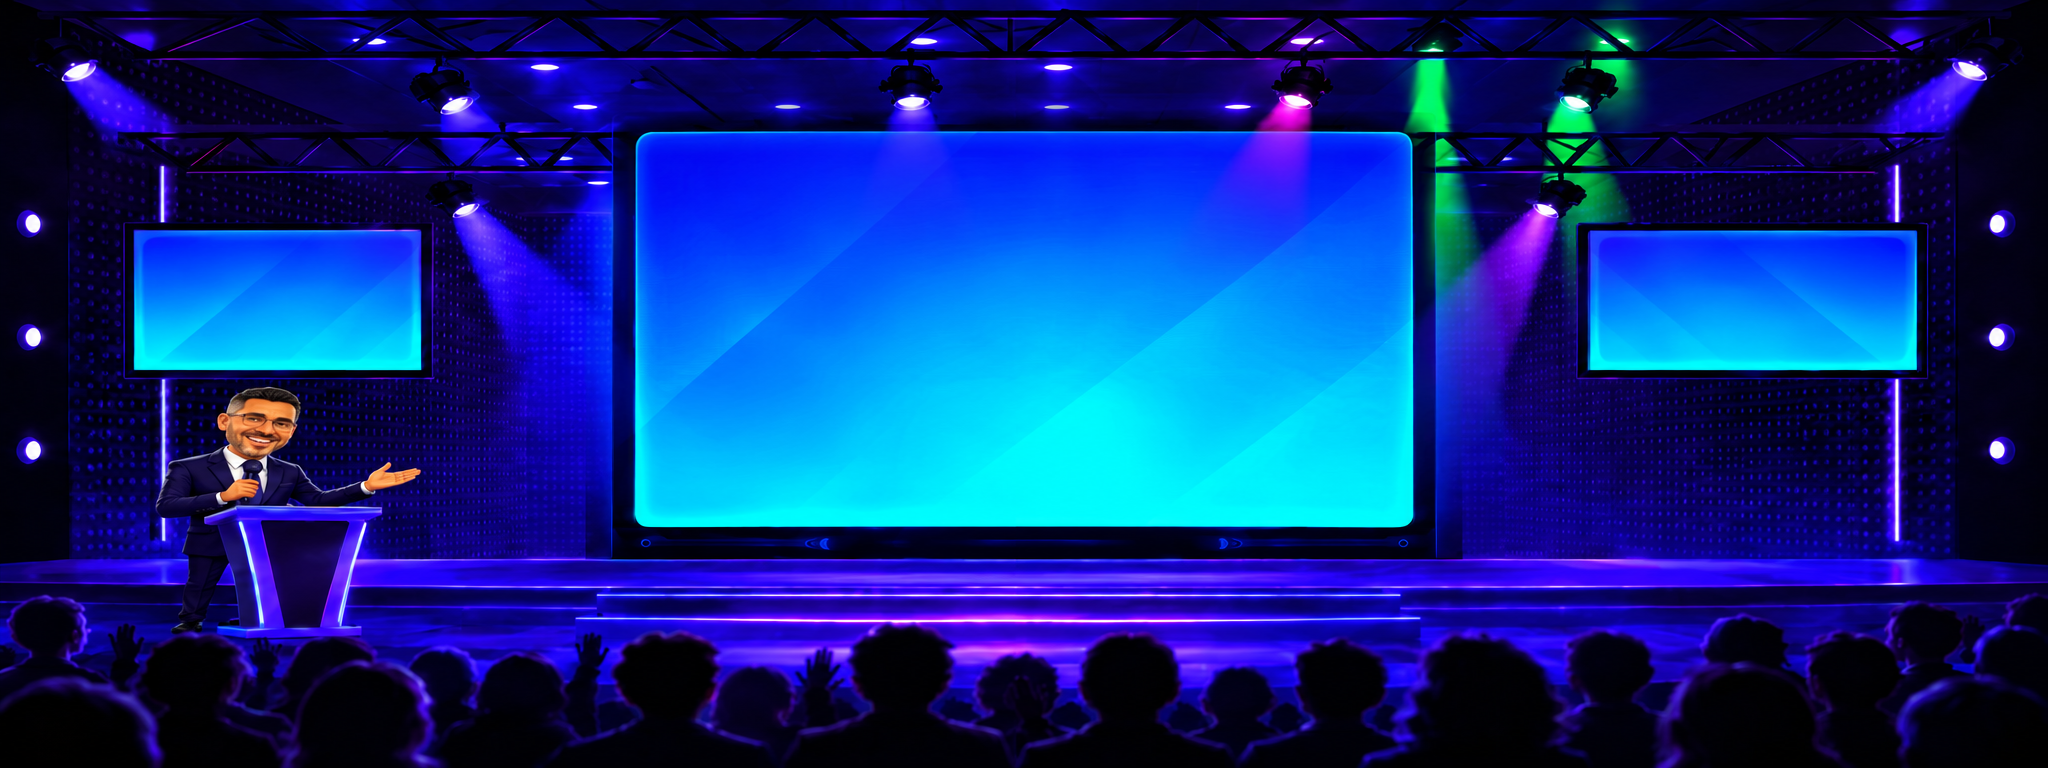
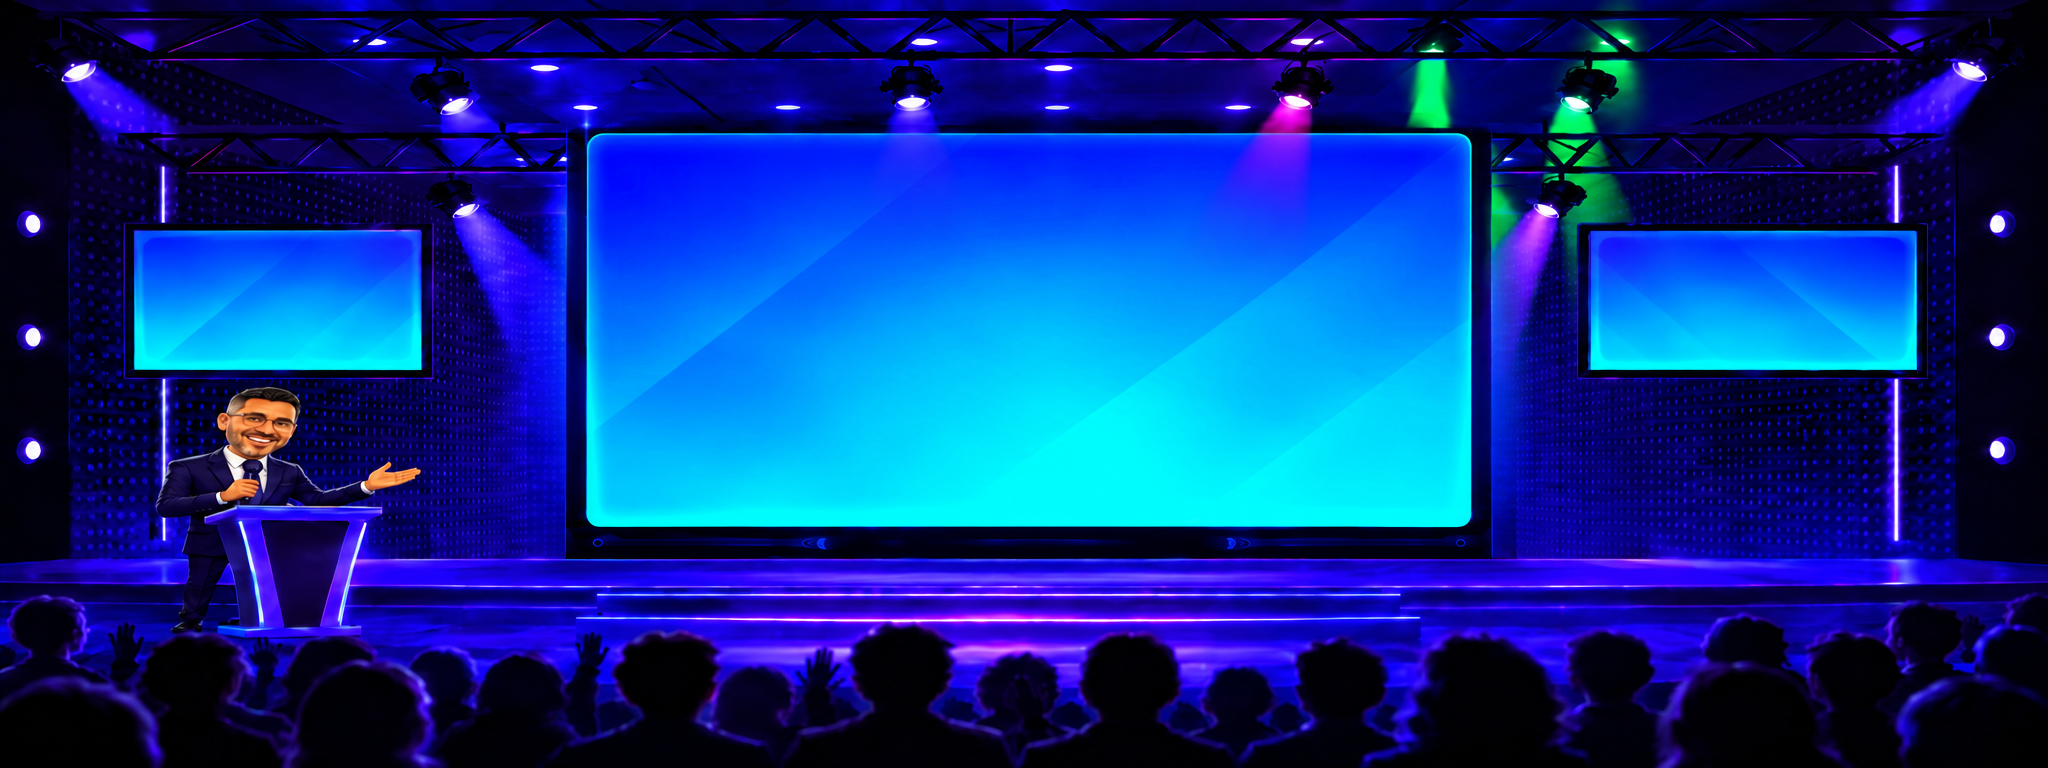
ajustes

diff --git a/src/components/GameScreen.css b/src/components/GameScreen.css
@@ -194,8 +194,8 @@
     }
 
     .player-panel .player-stat { 
-        padding: 0.05rem 0.5rem; 
-        font-size: 0.52rem; 
+        padding: 0.04rem 0.5rem; 
+        font-size: 0.5rem; 
         line-height: 1; 
         background: transparent; }
 
@@ -541,6 +541,8 @@
     .main-screen #question { 
         
         position: relative; 
+         left: 6px;
+        
     }
 
     .main-screen .combo-badge { 
@@ -558,149 +560,107 @@
     .main-screen #question.question-with-image { 
         
         display: flex; 
-        flex-direction: column; 
-    }
+        flex-direction: column;
+         
+       
+}
+
+
 }
 
 /* ==========================================================================
 📱 LAYOUT MOBILE EM PÉ (Até 768px vertical)========================================================================== */
 
 @media (max-width: 768px) {
-    .ranking-toggle { 
-        display: block; 
-        width: 100%; 
+    .ranking-toggle {
+        display: block;
+        width: 100%;
         padding: 0.8rem;
-         background-color: #2b283d; 
-         color: #fff; 
-         border: 1px solid #8435de; 
-         border-radius: 0.7rem; 
-         font-weight: bold; 
-         cursor: pointer; 
-        }
-        
-        .ranking-panel {
-            
-            display: none; 
-        }
-        
-        .ranking-panel.ranking-open { 
-            
-            display: block; 
-        }
-        
-        .game-screen { 
-            width: 100%; 
-            max-width: 100%; 
-            grid-template-columns: minmax(0, 1fr); 
-            gap: 1rem; 
-            padding: 0.6rem; 
-            box-sizing: border-box; 
-            overflow-x: hidden; 
-        }
-        
-        .player-panel, .main-screen, .ranking-panel, .ranking-toggle {
-            
-            width: 100%; 
-            max-width: 100%; 
-            min-width: 0; 
-            box-sizing: border-box; 
-        }
+        background-color: #2b283d;
+        color: #fff;
+        border: 1px solid #8435de;
+        border-radius: 0.7rem;
+        font-weight: bold;
+        cursor: pointer;
+        order: 2;
+    }
 
-        .player-panel { 
-            
-            order: 1; 
-            padding: 1rem; 
-        }
-        
-        .ranking-toggle { 
-            
-            order: 2; 
-        }
-        
-        .ranking-panel { 
-            
-            order: 3; 
-            padding: 1rem; 
-        }
-        
-        .main-screen { 
-            
-            order: 4; 
-            padding: 0.3rem; 
-            overflow: hidden; 
-        }
-        
-        .player-stats { 
-            
-            display: grid; 
-            grid-template-columns: repeat(3, 1fr); 
-            gap: 0.5rem; 
-        }
-        
-        .player-stat { 
-            
-            flex-direction: column; 
-            justify-content: center;
-             gap: 0.25rem; 
-             padding: 0.6rem 0.3rem; 
-             font-size: 0.75rem; 
-            }
-            
-            .player-name { 
-                
-                margin-bottom: 0.5rem; 
-            }
+    .ranking-panel { display: none; }
+    .ranking-panel.ranking-open { display: block; }
 
-            /* ==========================================================================
-            📱 AJUSTE DAS TELAS DO PALCO PARA CELULAR DEITADO / LANDSCAPE (Até 932px)
-            ========================================================================== */
-            
-            @media (max-width: 932px) and (orientation: landscape) {
-                
-                .main-screen {
-                    position: absolute !important; 
-                    left: 31% !important; 
-                    top: 15.5% !important;
-                    width: 39% !important; 
-                    height: 52% !important; 
-                    overflow: visible !important;
-                }
-                
-                   /* Substitua estes blocos dentro da media query landscape no gamescreen.css */
+    .game-screen {
+        width: 100%;
+        max-width: 100%;
+        grid-template-columns: minmax(0, 1fr);
+        gap: 1rem;
+        padding: 0.6rem;
+        box-sizing: border-box;
+        overflow-x: hidden;
+    }
+
+    .player-panel, .main-screen, .ranking-panel, .ranking-toggle {
+        width: 100%;
+        max-width: 100%;
+        min-width: 0;
+        box-sizing: border-box;
+    }
+
+    .player-panel { order: 1; padding: 1rem; }
+    .ranking-panel { order: 3; padding: 1rem; }
+    .main-screen { order: 4; padding: 0.3rem; overflow: hidden; }
+
+    .player-stats {
+        display: grid;
+        grid-template-columns: repeat(3, 1fr);
+        gap: 0.5rem;
+    }
+
+    .player-stat {
+        flex-direction: column;
+        justify-content: center;
+        gap: 0.25rem;
+        padding: 0.6rem 0.3rem;
+        font-size: 0.75rem;
+    }
+
+    .player-name { margin-bottom: 0.5rem; }
+}
+
+/* Celular deitado: posicionamentos do palco preservados. */
+@media (max-width: 932px) and (orientation: landscape) {
+    .main-screen {
+        position: absolute !important;
+        left: 31% !important;
+        top: 15.5% !important;
+        width: 39% !important;
+        height: 52% !important;
+        overflow: visible !important;
+    }
+
     .player-panel {
         position: absolute !important;
-        left: 6.0% !important;
-        /* 🎯 Ajustado de 29% para 31.5% para descer o bloco inteiro e centralizar no telão */
-        top: 30.5% !important; 
+        left: 6% !important;
+        top: 30.5% !important;
         width: 15% !important;
         height: 18% !important;
         background: transparent !important;
         border: none !important;
         box-shadow: none !important;
-       
     }
 
     .ranking-panel {
         position: absolute !important;
         right: 5% !important;
-        /* 🎯 Ajustado de 27% para 29.5% para descer o bloco inteiro e centralizar no telão */
-        top: 29.5% !important; 
+        top: 29.5% !important;
         width: 19% !important;
         height: 18% !important;
         background: transparent !important;
         border: none !important;
         box-shadow: none !important;
-      
     }
-
-            
-    
 }
 
-
-    }
-
-    /* ==========================================================================
+/* ==========================================================================
    🔒 TELA DE BLOQUEIO DE ORIENTAÇÃO (Forçar celular deitado)
    ========================================================================== */
 
@@ -818,6 +778,9 @@
         margin: 0 !important;
         line-height: 1.1 !important;
     }
+
+    
+
 }
 
 @keyframes girarCelular {
@@ -826,40 +789,5 @@
     100% { transform: rotate(0deg); }
 }
 
-/* ==========================================================================
-   📟 BLINDAGEM FLUIDA DA IMAGEM PARA TABLETS E DOBRÁVEIS (Deitados)
-   ========================================================================== */
-@media (min-width: 769px) and (max-width: 1280px) {
 
-    /* 🎯 IGUAL AO CELULAR: Limita a altura do bloco para 68% da TV azul */
-    .main-screen .image-question-content {
-        display: grid !important;
-        grid-template-columns: 1.1fr 0.9fr !important;
-        gap: 0.4rem !important;
-        width: 100% !important;
-        height: 68% !important; 
-        margin-top: 0px !important;
-        align-items: center !important; 
-    }
 
-    /* 🎯 IGUAL AO CELULAR: Cria o teto invisível baseado na altura útil do aparelho */
-    .main-screen .image-question-left {
-        width: 100% !important;
-        height: 100% !important;
-        max-height: 32vh !important; /* A foto gigante NUNCA vai passar de 32% da altura de nenhum tablet */
-        display: flex !important;
-        align-items: center !important;
-        justify-content: center !important;
-        overflow: hidden !important;
-    }
-
-    /* 🎯 IGUAL AO CELULAR: Força o React a encolher a foto mantendo a proporção original */
-    .main-screen .image-question-left .question-image {
-        width: auto !important; 
-        height: 100% !important;
-        max-width: 100% !important;
-        max-height: 100% !important;
-        object-fit: contain !important; /* Encolhe perfeitamente a imagem sem achatar ou distorcer */
-        margin: 0 !important;
-    }
-}

diff --git a/src/components/Question.css b/src/components/Question.css
@@ -12,7 +12,7 @@
 
 #question p { margin-bottom: 1rem; }
 #question h2 { margin-bottom: 2rem; }
-#question button { border: 2px solid #fff; margin: 0.5rem; }
+#question button { border: 2px solid #fff; }
 
 /* Imagens das perguntas */
 .question-image {
@@ -211,20 +211,20 @@
 
     /* 📝 AJUSTE EXCLUSIVO DA PERGUNTA SEM IMAGEM (Ficar maior e imponente) */
     .main-screen #question:not(.question-with-image) h2 {
-        font-size: 13px !important; /* Aumentado de 11px para 13px para dar mais destaque */
+        font-size: 12px !important; /* Aumentado de 11px para 13px para dar mais destaque */
         line-height: 1.2 !important;
         margin: 0.4rem 0 !important; /* Dá mais espaço em volta do texto */
         text-align: center !important;
-        left: 0px !important;
+        left: 6px !important;
     }
 
     /* Pergunta com imagem mantém o tamanho pequeno de segurança */
     .main-screen #question.question-with-image h2 {
         font-size: 11px !important;
         line-height: 1.1 !important;
-        margin: 0.15rem 0 !important;
+        margin: 0.5rem  !important;
         text-align: center !important;
-        left: 0px !important;
+        left: 6px !important;
     }
 
     /* 🧱 LAYOUT 1: PERGUNTAS SEM IMAGEM (Preencher o espaço vazio e aumentar as caixas) */
@@ -350,31 +350,28 @@
         margin: 0 !important; 
         white-space: nowrap !important; 
     }
-}
 
-/* ==========================================================================
-   🔏 BLINDAGEM DA IMAGEM NO MOBILE DEITADO (Adicione no fim do Question.css)
-   ========================================================================== */
-@media (max-width: 932px) and (orientation: landscape) {
-    /* Força o container da esquerda a nunca passar da altura útil da TV */
+
+    /* Regras de contenção da imagem, consolidadas nesta media query. */
     .main-screen .image-question-left {
         width: 100% !important;
         height: 100% !important;
-        max-height: 32vh !important; /* 🎯 TRAVA A ALTURA DA FOTO NO CELULAR G42 */
+        max-height: 32vh !important;
         display: flex !important;
         align-items: center !important;
         justify-content: center !important;
         overflow: hidden !important;
     }
 
-    /* Obriga a foto (RBD, Pelé, etc) a encolher e caber nessa caixinha travada */
     .main-screen .image-question-left .question-image {
         width: auto !important;
         height: 100% !important;
         max-width: 100% !important;
         max-height: 100% !important;
-        object-fit: contain !important; /* Mantém a proporção da foto sem achatar */
+        object-fit: contain !important;
         margin: 0 !important;
     }
 }
+
+
 
